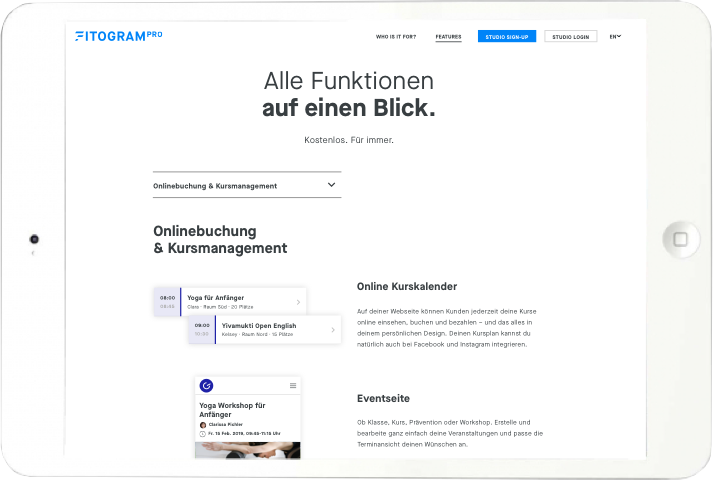
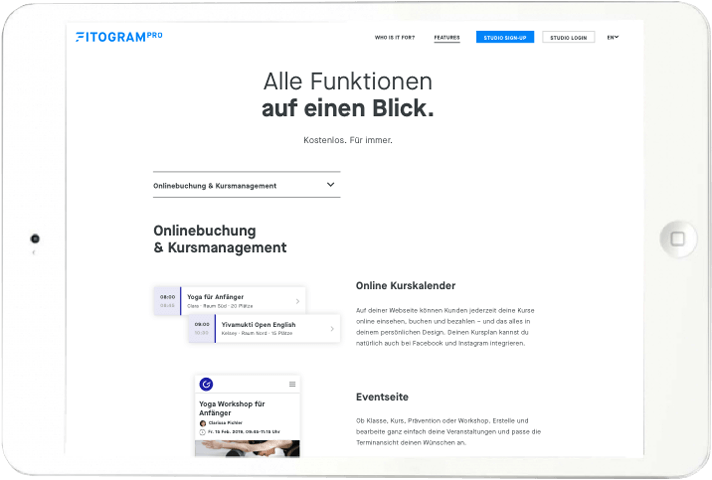
fitogram refactor

diff --git a/fitogram.html b/fitogram.html
@@ -88,10 +88,10 @@
               </ul>
             </div> <!-- close left column (text) -->
             <div class="displaynone"> <!-- open right column (img) -->
-              <picture>
+              <div>
                 <source srcset="http://via.placeholder.com/500x400" media="(max-width:767px)">
                 <img src="img/7seas/mainimage.png" alt="7seas">
-              </picture>
+              </div>
             </div> <!-- close right column (img) -->
           </div> <!-- close row that contains (2) columns (box+img) -->
         </div> <!-- close container-->
@@ -166,35 +166,31 @@
 
           <div class="row workpage coloredbg"> <!-- open 01 row (the website img) -->
             <div class="fitogram_images"> <!-- open row that contains images-->
-              <div> <!-- open column 1-->
-                <picture class="col-md-3">
-                  <source srcset="img/fitogram/website_mobile_1.png" media="(max-width:767px)">
-                  <img src="img/fitogram/website_1.png" alt="thewebsite" class="screensfito fitoipad">
-                </picture>
-              </div> <!-- close column 1-->
-              <div> <!-- open column 2-->
-                <picture class="col-md-3">
-                  <img src="img/fitogram/website_2.png" alt="thewebsite" class="screensfito fitomobile">
-                </picture>
-              </div> <!-- close column 2-->
-              <div> <!-- open column 3-->
-                <picture class="col-md-3">
-                  <source srcset="img/fitogram/website_mobile_2.png" media="(max-width:767px)">
-                  <img src="img/fitogram/website_3.png" alt="thewebsite" class="screensfito fitoipad">
-                </picture>
-              </div> <!-- close column 3-->
-              <div> <!-- open column 4-->
-                <picture class="col-md-3">
-                  <img src="img/fitogram/website_4.png" alt="thewebsite" class="screensfito fitomobile">
-                </picture>
-              </div> <!-- close column 4-->
-            </div> <!-- close row that contains images-->
 
-            <div class="buttonrow"> <!-- open  button -->
-              <a href="https://www.fitogram.pro/" target="_blank" class="button secondary">see Fitogram Website</a>
-            </div> <!-- close button -->
+                <div class="col-12 col-md-6">
+                    <div  class="col-9 img-fito">
+                        <img src="img/fitogram/website_1.png" alt="thewebsite" class="screensfito fitoipad">
+                      </div>
+                      <div  class="col-3 img-fito">
+                        <img src="img/fitogram/website_2.png" alt="thewebsite" class="screensfito fitomobile">
+                      </div>
+                </div>
+                <div class="col-12 col-md-6">
+                    <div  class="col-9 img-fito">
+                        <img src="img/fitogram/website_3.png" alt="thewebsite" class="screensfito fitoipad">
+                      </div>
+                      <div  class="col-3 img-fito">
+                        <img src="img/fitogram/website_4.png" alt="thewebsite" class="screensfito fitomobile">
+                      </div>
+                </div>
+              </div> <!-- close column 2-->
 
           </div> <!-- close 01 row (the website img) -->
+        <div class="row workpage coloredbg"> <!-- open 01 row (the website img) -->
+            <div class="buttonrow"> <!-- open  button -->
+                <a href="https://www.fitogram.pro/" target="_blank" class="button secondary">see Fitogram Website</a>
+            </div> <!-- close button -->
+          </div> <!-- close row -->
 
           <div class="row workpage"> <!-- open 02 row (onboarding text)-->
             <div id="onboarding" class="section1">
@@ -212,27 +208,19 @@
           </div> <!-- close 02 row (onboarding text) -->
 
           <div class="row workpage"> <!-- open 02 row (onboarding img) -->
-            <div> <!-- open column 1-->
-              <picture class="col-md-3">
+            <div class="col-md-3 img-fito"> <!-- open column 1-->
                 <source srcset="img/fitogram/onboarding_mobile_1.png" media="(max-width:767px)">
                 <img src="img/fitogram/onboarding_1.png" alt="onboarding" class="screensfito fitoipad">
-              </picture>
             </div> <!-- close column 1-->
-            <div> <!-- open column 2-->
-              <picture class="col-md-3">
+            <div class="col-md-3 img-fito"> <!-- open column 2-->
                 <img src="img/fitogram/onboarding_2.png" alt="onboarding" class="screensfito fitomobile">
-              </picture>
             </div> <!-- close column 2-->
-            <div> <!-- open column 3-->
-              <picture class="col-md-3">
+            <div class="col-md-3 img-fito"> <!-- open column 3-->
                 <source srcset="img/fitogram/onboarding_mobile_2.png" media="(max-width:767px)">
                 <img src="img/fitogram/onboarding_3.png" alt="onboarding" class="screensfito fitoipad">
-              </picture>
             </div> <!-- close column 3-->
-            <div> <!-- open column 4-->
-              <picture class="col-md-3">
+            <div class="col-md-3 img-fito"> <!-- open column 4-->
                 <img src="img/fitogram/onboarding_4.png" alt="onboarding" class="screensfito fitomobile">
-              </picture>
             </div> <!-- close column 4-->
           </div> <!-- close 02 row (onboarding img) -->
 
@@ -252,30 +240,22 @@
           </div> <!-- close 03 row (fitoapp text) -->
 
           <div class="row workpage coloredbg"> <!-- open 03 row (fitoapp img) -->
-            <div> <!-- open column 1-->
-              <picture class="col-md-3">
-                <source srcset="img/fitogram/app_mobile_1.png" media="(max-width:767px)">
-                <img src="img/fitogram/app_1.png" alt="app" class="screens fitoapp">
-              </picture>
-            </div> <!-- close column 1-->
-            <div> <!-- open column 2-->
-              <picture class="col-md-3">
-                <source srcset="img/fitogram/app_mobile_2.png" media="(max-width:767px)">
-                <img src="img/fitogram/app_2.png" alt="app" class="screens fitoapp">
-              </picture>
-            </div> <!-- close column 2-->
-            <div> <!-- open column 3-->
-              <picture class="col-md-3">
-                <source srcset="img/7seas/mobile_userstories.png" media="(max-width:767px)">
-                <img src="img/fitogram/app_3.png" alt="app" class="screens fitoappnone">
-              </picture>
-            </div> <!-- close column 3-->
-            <div> <!-- open column 4-->
-              <picture class="col-md-3">
-                <source srcset="img/7seas/mobile_userstories.png" media="(max-width:767px)">
-                <img src="img/fitogram/app_4.png" alt="app" class="screens fitoappnone">
-              </picture>
-            </div> <!-- close column 4-->
+            <div class="col-12 col-md-6">
+                <div  class="col-6 img-fito">
+                    <img src="img/fitogram/app_1.png" alt="app" class="screens fitomobile">
+                  </div>
+                  <div  class="col-6 img-fito">
+                    <img src="img/fitogram/app_2.png" alt="app" class="screens fitomobile">
+                  </div>
+            </div>
+            <div class="col-12 col-md-6">
+                <div  class="col-6 img-fito">
+                    <img src="img/fitogram/app_3.png" alt="app" class="screens fitomobile">
+                  </div>
+                  <div  class="col-6 img-fito">
+                    <img src="img/fitogram/app_4.png" alt="app" class="screens fitomobile">
+                  </div>
+            </div>
           </div> <!-- close 03 row (fitoapp img) -->
 
         </div> <!-- close discover container -->

diff --git a/css/style.css b/css/style.css
@@ -5,7 +5,14 @@ Secondary Color (Dark): #1F4E5F;
 Black Color: #212121
 */
 /* Layout styling */
-
+[class*="col-"] {
+  float: left;
+  padding: 10px;
+  }
+  .buttonrow a {
+    margin: 0px auto;
+    display: block;
+}
 .container {
   padding: 0 15px;
 }
@@ -119,14 +126,13 @@ a:active { /* selected link */
 }
 
 .button.secondary {
-  display: inline-block;
   background-color: transparent;
   color: #212121 !important;
   text-transform: uppercase;
   border: 2px solid #212121;
   padding: 10px 10px;
-  width: 100%;
-  max-width: 270px;
+  width: 270px;
+  text-align: center;
 }
 .button.secondary:visited {
   background-color: transparent;
@@ -745,9 +751,7 @@ padding: 15px;
 /*
 fitogram work page
 */
-.fitomobile {
-  display: none;
-}
+
 .fitoapp {
   min-width: 190px;
   margin-top: 30px;
@@ -844,7 +848,7 @@ Medium devices (768px or larger)
   padding: 10px;
   }
   .col-md-6 {
-  width: 50%;
+  width: 50%!important;
   }
   /*
   Main
@@ -1069,6 +1073,9 @@ fitogram work page
   .col-md-3 {
   width: 25%;
   }
+  .col-md-9{
+    width: 75%;
+  }
   #herofitogram {
     display: flex;
     flex-direction: column;
@@ -1103,18 +1110,10 @@ fitogram work page
     filter: drop-shadow(2px 2px 5px #d9d9d9);
     margin: 0 3px;
   }
-  .fitomobile {
-    display: inline-block;
-    max-width: 70px;
-    margin-left: 40px;
-  }
-  .fitoipad {
-    min-width: 200px;
-    margin-right: 10px;
-  }
+
+
   .buttonrow {
     text-align: center;
-    margin: 80px;
     margin-bottom: 50px;
   }
   .fitogram_images {
@@ -1135,10 +1134,6 @@ Large devices (1024px or larger)
 @media only screen and (min-width: 1024px) {
   body {
     font-size: 18px; /* Sets the font size to 18px */
-  }
-  [class*="col-"] {
-  float: left;
-  padding: 10px;
   }
   .col-lg-7 {
   width: 58.33%;
@@ -1252,12 +1247,7 @@ Large devices (1024px or larger)
   #herofitogram .container > p {
     text-align: left;
   }
-  .fitomobile {
-    max-width: 80px;
-  }
-  .fitoipad {
-    min-width: 200px;
-  }
+
 }
 /* ==============================
 X-large devices (1440px or larger)
@@ -1298,7 +1288,27 @@ X-large devices (1440px or larger)
   #herofitogram .container > p {
     max-width:760px;
   }
-  .fitomobile {
-    max-width: 93px;
+}
+
+.img-fito img {
+  padding: 0px;
+  margin: 0px auto;
+  max-width: max-content;
+}
+.fitomobile {
+  margin-top: 33px!important;
+  width: 100%;
+}
+
+.col-12 {
+  width: 100%;
   }
+  .col-6 {
+    width: 50%;
+    }
+.col-3 {
+width: 25%;
+}
+.col-9{
+  width: 75%;
 }
